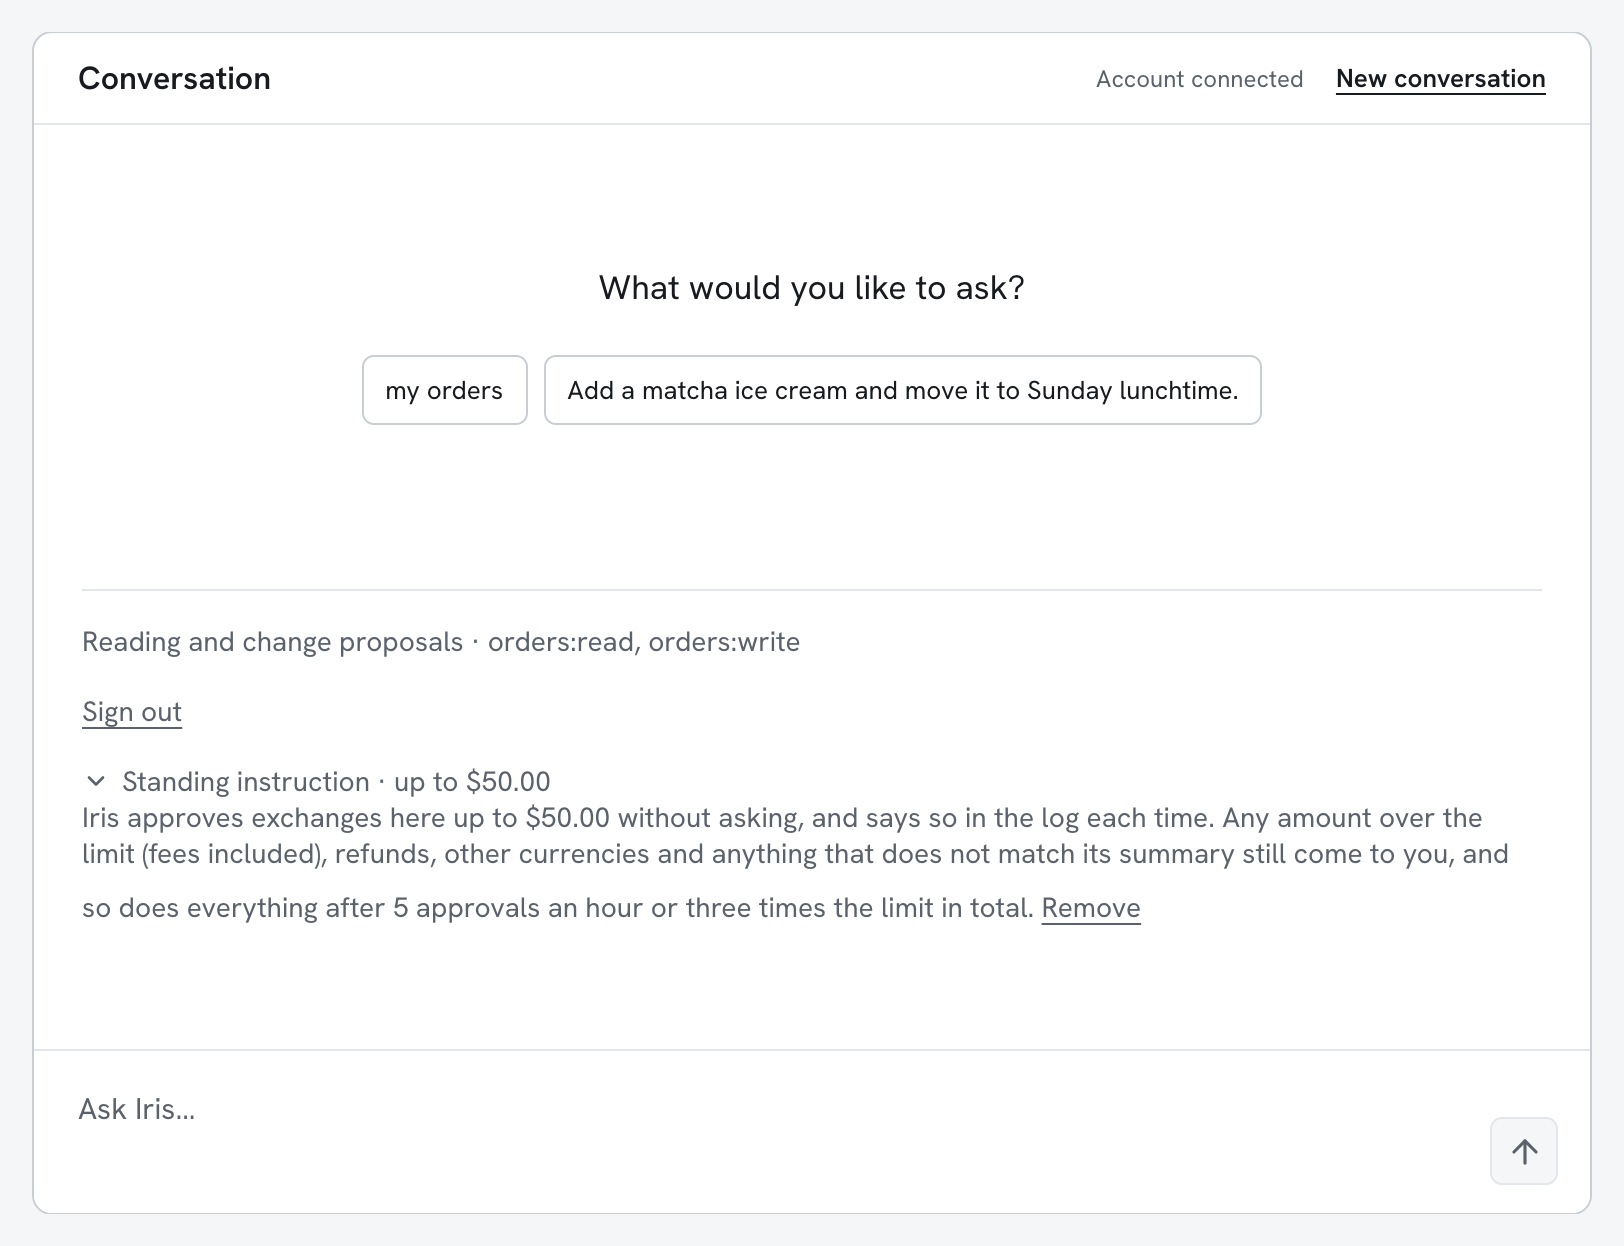
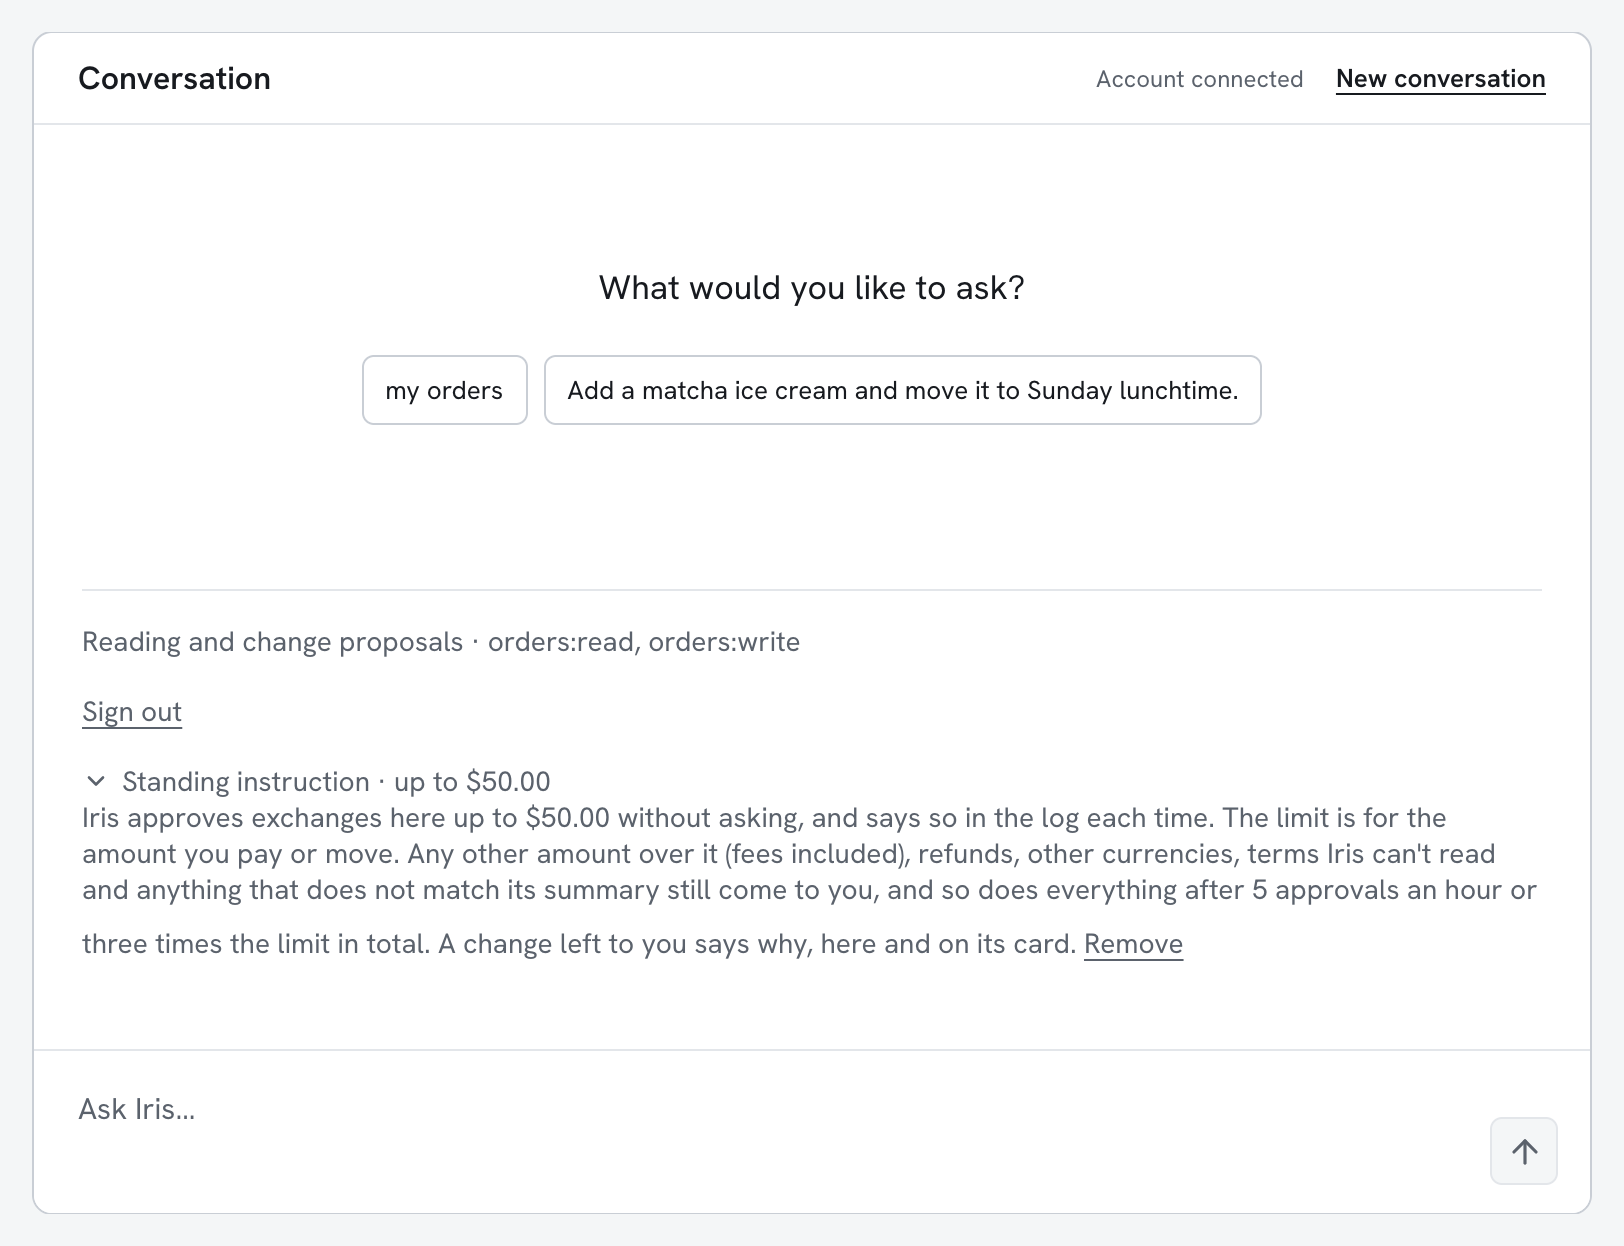
Retake Letting the agent approve for you after today's changes to the lab
Every screenshot is new, from one visitor's run against production on 25
November 2026.

On screen: the instruction now says that the limit is for the amount the
customer pays or moves; a change left to the customer carries the reason
on its card and under the instruction (over the limit, the hour's total);
Lantern's record shows the time.

The Harborline part is rewritten around what happens now. With an
instruction of 50 dollars, Iris approves a transfer of 25 dollars,
Harborline declines the agent's approval and does nothing, the transfer
comes back to Elena with the bank's reason, she approves it herself, and
Harborline's website lists the declined attempt as Not applied next to
the transfer she approved. That takes steps 9 to 11 with three new
images in place of the two old ones; the Inspector image moves to 12.

The explanation of what an instruction covers follows the rule as it is:
the limit is compared with the amount paid or moved, every other amount
must be within it, and a balance counts by how much it changes.

Changed region(s): [[0.0308, 0.6404, 0.9236, 0.7624]]

diff --git a/docs/learn/how-it-works/letting-the-agent-approve-for-you.md b/docs/learn/how-it-works/letting-the-agent-approve-for-you.md
@@ -8,9 +8,10 @@ approves a small change without asking her, tells Lantern that the agent
 approved, and still brings her everything the instruction does not cover.
 
 This page follows the instruction screen by screen at Lantern, and then at
-[Harborline Bank](https://bank-demo.poppylab.dev), where the same instruction
-approved nothing and Elena decided herself. Every screenshot is from the live
-lab, taken on 25 November 2026.
+[Harborline Bank](https://bank-demo.poppylab.dev), where Iris approves a small
+transfer on the same instruction, the bank declines the agent's approval, and
+Elena approves the transfer herself. Every screenshot is from the live lab,
+taken on 25 November 2026.
 
 ## Who does what
 
@@ -45,22 +46,25 @@ under Lantern's address.
 
 ### 2. What the instruction covers
 
-![The saved instruction: Iris approves exchanges here up to 50 dollars without asking, with the cases that still come to Elena and a Remove link](../../../apps/playground/public/learn-media/how-it-works/letting-the-agent-approve-for-you/02-instruction-saved.webp "Iris states the rule back in full, with a link to remove it.")
+![The saved instruction: Iris approves exchanges here up to 50 dollars without asking, the limit is for the amount you pay or move, with the cases that still come to Elena and a Remove link](../../../apps/playground/public/learn-media/how-it-works/letting-the-agent-approve-for-you/02-instruction-saved.webp "Iris states the rule back in full, with a link to remove it.")
 
 Iris states the rule back. It will approve changes at Lantern up to 50 dollars
-without asking and record each one. Any amount over the limit, a refund,
-another currency or terms that disagree with their own summary still come to
-Elena. So does everything after five approvals in an hour, or once the
-approvals of an hour add up to three times the limit.
+without asking and record each one. The limit is for the amount Elena pays or
+moves. Any other amount over it, a refund, another currency, terms Iris cannot
+read or terms that disagree with their own summary still come to her.
 
-The limit is compared with the whole amount the company states for the
-changed order, and with any fee. A 6-dollar dessert on a 37-dollar order makes
-a total of 43 dollars, so it needs a limit of at least 43. With a limit of 20
-dollars the same dessert waited for Elena.
+So does everything after five approvals in an hour, or once the approvals of
+an hour add up to three times the limit. Iris also says that a change left to
+Elena carries the reason, under the instruction and on its card.
+
+For a change to an order, the amount Elena pays is the new total the company
+states. A 6-dollar dessert on a 37-dollar order makes a total of 43 dollars,
+so it needs a limit of at least 43. Every other amount in the terms, such as
+the previous total or a fee, has to be within the limit as well.
 
 ### 3. Ask for a small change
 
-![Elena asks to add a matcha ice cream. Under the standing instruction a new line reads: approved by Iris, 43 dollars within your limit of 50 dollars](../../../apps/playground/public/learn-media/how-it-works/letting-the-agent-approve-for-you/03-iris-approves-under-the-instruction.webp "Lantern asked for an approval as usual. This time Iris gave it.")
+![Elena asks to add a matcha ice cream. Under the standing instruction a new line reads: approved by Iris, 43 dollars within your limit of 50 dollars, and the entry for the change reads Completed](../../../apps/playground/public/learn-media/how-it-works/letting-the-agent-approve-for-you/03-iris-approves-under-the-instruction.webp "Lantern asked for an approval as usual. This time Iris gave it.")
 
 Elena types "Add a matcha ice cream". Iris asks Lantern for the change, and
 Lantern answers as it does for any change: with the terms it would apply and a
@@ -79,12 +83,14 @@ does not decide whether an instruction applies.
 <summary>What travelled</summary>
 
 ```text
+Started a Poppy Session, signed in
+Read /poppy/tasks
+Company Agent conversations at https://food-demo.poppylab.dev/poppy/conversations
+Found 5 API tools at the Company
 Read /api/menu
 Read /api/account/orders
 Sent a request to /api/account/orders/ord_LNB1001/changes
 Asked for your approval; nothing was done yet
-Applying your standing instruction · $43.00 within your limit of $50.00
-Operation succeeded
 ```
 
 The terms in Lantern's answer, which Iris compared with the limit:
@@ -105,18 +111,26 @@ The terms in Lantern's answer, which Iris compared with the limit:
 ```
 
 Iris then sent the same request again with an approval that names the agent
-as the approver. [Approvals with Operations](../operations.md#who-approves)
-describes the two kinds of approval.
+as the approver, and wrote two more lines in its log:
+
+```text
+Applying your standing instruction · $43.00 within your limit of $50.00
+Operation succeeded
+```
+
+[Approvals with Operations](../operations.md#who-approves) describes the two
+kinds of approval.
 
 </details>
 
 ### 4. What Iris tells Elena
 
-![The card for the change reads Completed, with Lantern's confirmation and a note: approved by Iris on your standing instruction, not by a tap](../../../apps/playground/public/learn-media/how-it-works/letting-the-agent-approve-for-you/04-what-the-card-says.webp "The card says who approved and what Lantern was told.")
+![The card for the change reads Completed, with Lantern's confirmation, the previous total, the difference and the new total, and a note: approved by Iris on your standing instruction, not by a tap](../../../apps/playground/public/learn-media/how-it-works/letting-the-agent-approve-for-you/04-what-the-card-says.webp "The card says who approved and what Lantern was told.")
 
-The card for the change reads Completed. Below Lantern's confirmation, Iris
-says how the change was approved: by Iris on the standing instruction, and
-without a tap from Elena. It also says what Lantern received: the approver
+The card for the change reads Completed, and under Lantern's confirmation it
+says "Approved by Iris on your standing instruction". Opened, it shows the
+terms and how the change was approved: by Iris on the standing instruction,
+and without a tap from Elena. It also says what Lantern received: the approver
 "agent" and the reference of the entry in Iris's list.
 
 Iris does not pass its own approval off as Elena's. The company is told which
@@ -124,74 +138,76 @@ of the two approved.
 
 ### 5. What Lantern recorded
 
-![Lantern's record of the agent's activity: the change, applied, approved by your agent on a standing instruction you gave it](../../../apps/playground/public/learn-media/how-it-works/letting-the-agent-approve-for-you/05-lantern-records-who-approved.webp "Lantern's own website says that the agent approved this change.")
+![Lantern's record of the agent's activity: the change, applied on 25 November at 20:57 UTC, approved by your agent on a standing instruction you gave it](../../../apps/playground/public/learn-media/how-it-works/letting-the-agent-approve-for-you/05-lantern-records-who-approved.webp "Lantern's own website says that the agent approved this change.")
 
 Lantern's website shows the change under Your agent's activity, with the line
 "Approved by your agent, on a standing instruction you gave it". Lantern knew
 who approved and chose to act on it.
 
 That choice belongs to the company. Lantern takes an agent's approval for a
-change to an order. Another company can ask for the customer's own.
+change to an order. Another company can ask for the customer's own, as
+Harborline does in step 9.
 
 ### 6. A change over the limit
 
-![Elena asks to add two pork gyoza. The new total is 59 dollars, and the change waits in the Needs you panel with a button: Approve 59 dollars](../../../apps/playground/public/learn-media/how-it-works/letting-the-agent-approve-for-you/06-over-the-limit.webp "Above the limit, the change waits for Elena as it would without an instruction.")
+![Elena asks to add two pork gyoza. The new total is 59 dollars, and the change waits in the Needs you panel with the reason, over your limit of 50 dollars, and a button: Approve 59 dollars](../../../apps/playground/public/learn-media/how-it-works/letting-the-agent-approve-for-you/06-over-the-limit.webp "Above the limit, the change waits for Elena, and the panel says why.")
 
 Elena types "Add 2 pork gyoza". Lantern's terms put the new total at 59
-dollars, which is over the limit. Iris does not approve. The change waits in
-the Needs you panel, and Elena decides. She declined this one, and the order
-stayed as it was.
+dollars, which is over the limit, so Iris does not approve. The change waits
+in the Needs you panel, and the panel says why: the new total, 59 dollars, is
+over her limit of 50. Elena declined this one, and the order stayed as it was.
 
-A refund also came to her. When she asked to remove a dish, the new total was
-38 dollars, under the limit, and Iris still waited for her approval, because
-the instruction does not cover money coming back.
+A refund also came to her. When she asked to remove the ice cream, 6 dollars
+would come back and the new total was 37 dollars, under the limit. Iris still
+waited for her approval, because the instruction does not cover money coming
+back.
+The reason on the panel was that Iris could not read the price difference,
+which Lantern states as a negative amount.
 
 ### 7. A limit on the whole hour
 
-![Three approvals are listed under the instruction. A fourth change, to a total of 48 dollars, waits in the Needs you panel](../../../apps/playground/public/learn-media/how-it-works/letting-the-agent-approve-for-you/07-hourly-total-reached.webp "A change within the limit waits, because the approvals of the last hour already add up to 134 dollars.")
+![Three approvals are listed under the instruction. A fourth change, a move to Sunday with a total of 48 dollars, waits in the Needs you panel with the reason: more than 3 times your limit, 150 dollars, within an hour](../../../apps/playground/public/learn-media/how-it-works/letting-the-agent-approve-for-you/07-hourly-total-reached.webp "A change within the limit waits, because the approvals of the last hour already add up to 134 dollars.")
 
 Within the hour Iris approved three changes on the instruction, with totals
-of 43, 48 and 43 dollars. Elena then asks for one more small change, to a
-total of 48 dollars. It is within the limit of 50, and it still waits for her.
+of 43, 43 and 48 dollars. Elena then asks to move the delivery to Sunday
+lunchtime. The total stays at 48 dollars, within the limit of 50, and the
+change still waits for her.
 
 The approvals of one hour may add up to three times the limit, which is 150
 dollars here, and this one would bring them to 182. The limit on one change
-cannot be used many times in a row to approve a large amount. The panel does
-not say why the change is waiting. Iris's log does, and it is shown at the end
-of this page.
+cannot be used many times in a row to approve a large amount. The panel gives
+that reason above its buttons.
 
 ### 8. The list of what Iris approved
 
-![The standing instruction with three entries below it, each with Lantern's description, the amount against the limit and a reference](../../../apps/playground/public/learn-media/how-it-works/letting-the-agent-approve-for-you/08-ledger.webp "Every approval Iris gave on the instruction, with the reference Lantern received.")
+![The standing instruction with four entries below it: three approved by Iris, each with the amount against the limit and a reference, and the move to Sunday, left to you with the reason](../../../apps/playground/public/learn-media/how-it-works/letting-the-agent-approve-for-you/08-ledger.webp "Every approval Iris gave on the instruction, with the reference Lantern received, and the change it left to Elena.")
 
 Under the instruction Iris keeps a list of every approval it gave on it:
 Lantern's description of the change, the amount against the limit, and the
 reference Lantern received with the approval. Elena can compare it with
-Lantern's record in step 5.
+Lantern's record in step 5. A change that waits for her is in the list too,
+with the reason Iris left it to her.
 
 The refund she approved herself and the change she declined are not in the
-list. It holds only what the instruction approved.
+list.
 
 ### 9. The same instruction at Harborline
 
-![At Harborline, with a standing instruction up to 50 dollars, a transfer of 25 dollars waits in the Needs you panel with an Approve button](../../../apps/playground/public/learn-media/how-it-works/letting-the-agent-approve-for-you/09-harborline-waits-for-elena.webp "At the bank the instruction approved nothing. The transfer waits for Elena.")
+![At Harborline, with a standing instruction up to 50 dollars, a transfer of 25 dollars is back in the Needs you panel with a note that Harborline Bank declined the approval Iris sent, the bank's reason and a button: Approve 25 dollars](../../../apps/playground/public/learn-media/how-it-works/letting-the-agent-approve-for-you/09-harborline-declines-the-agent.webp "Iris approved on the instruction. Harborline declined the agent's approval and did nothing.")
 
 Elena writes the same instruction for Harborline Bank and asks Iris to
-transfer 25 dollars from checking to savings. The amount is under the limit,
-and Iris still does not approve it. The transfer waits in the Needs you
-panel.
+transfer 25 dollars from checking to savings. Harborline answers with terms,
+as in [Moving money](moving-money.md). The amount she moves is 25 dollars, so
+the instruction covers it, and Iris sends an approval of its own.
 
-Iris applies an instruction only to terms it can settle against the limit: a
-total stated by the company, with every other amount in the terms within the
-limit too. Harborline's terms for a transfer hold the amount and the balances
-of both accounts, which are far above 50 dollars, and no total. Iris cannot
-settle them, so the decision goes to Elena.
+Harborline declines it. The bank moves money only when the customer approves
+herself, and it says so in its answer. It does nothing, and the transfer comes
+back to Elena: the panel shows the same terms, the bank's reason and an
+Approve button.
 
-Harborline also has a rule of its own for this case.
-[Approvals with Operations](../operations.md#declines) describes it: the
-bank declines an agent's approval for a payment or a transfer and asks for the
-customer's own. In this run Iris sent no approval of its own to Harborline, so
-that rule was not put to the test.
+Harborline's terms also hold the balances of both accounts, which are far
+above 50 dollars. Iris does not compare a balance with the limit. It compares
+what the transfer does to each balance, which is 25 dollars here.
 
 <details>
 <summary>What travelled</summary>
@@ -202,21 +218,43 @@ Sent a request to /api/account/transfers
 Asked for your approval; nothing was done yet
 ```
 
-Harborline's terms hold `amount_cents`, the four balances before and after as
-`source_balance_before_cents` and the like, and no `total_cents`. Iris sent no
-approval until Elena pressed the button.
+Iris then sent the same request again with an approval that names the agent,
+and Harborline declined it. Iris's log has a line for each:
+
+```text
+Applying your standing instruction · $25.00 within your limit of $50.00
+Company declined the approval on your standing instruction · waiting for you
+```
+
+[Approvals with Operations](../operations.md#declines) describes a decline. It
+is final for that approval, and the agent does not send it again.
 
 </details>
 
 ### 10. Elena approves it herself
 
-![Harborline's record of the agent's activity: the transfer of 25 dollars, applied once, approved by you in your agent](../../../apps/playground/public/learn-media/how-it-works/letting-the-agent-approve-for-you/10-harborline-records-elena-approved.webp "Harborline's website says that Elena approved this transfer herself.")
+![The transfer of 25 dollars now reads Completed and Approved by you. Under the instruction its line reads: declined by the company, left to you](../../../apps/playground/public/learn-media/how-it-works/letting-the-agent-approve-for-you/10-elena-approves-herself.webp "The same terms, approved by Elena this time, and Harborline made the transfer.")
 
-Elena presses Approve, and Harborline makes the transfer. Its website records
-it as approved by her, in her agent.
+Elena presses Approve $25.00. Iris sends the same request once more, this time
+with her approval, and Harborline makes the transfer. The entry reads
+Completed and "Approved by you".
 
-Whatever the instruction does not cover arrives in the same panel as before,
-where Elena can approve or decline it.
+Under the instruction, the line for this transfer says that the company
+declined and that it was left to her. Iris does not try the instruction on it
+again.
+
+### 11. What Harborline recorded
+
+![Harborline's record of the agent's activity: the transfer of 25 dollars applied once and approved by you in your agent, and below it the same transfer marked Not applied, with the bank's reason, approved by your agent on a standing instruction](../../../apps/playground/public/learn-media/how-it-works/letting-the-agent-approve-for-you/11-harborline-records-both.webp "Harborline's website lists the approval it declined and the one it acted on.")
+
+Harborline's website lists both attempts under Agent activity. One is marked
+Not applied, with the bank's reason and the line "Approved by your agent, on a
+standing instruction you gave it". The other is the transfer, applied once and
+approved by Elena in her agent.
+
+Whatever the instruction does not cover, or a company does not take from an
+agent, arrives in the same panel as before, where Elena can approve or decline
+it.
 
 ## What Lantern and Harborline control
 
@@ -226,16 +264,16 @@ Each company stays in charge of what an agent's approval is worth to it.
   could not raise or lower that total.
 - It learns from the approval who gave it, the customer or the agent on her
   instruction, and it keeps that in its own record.
-- It decides whether to act on an agent's approval. Lantern did. A company
-  may decline one and do nothing, and an agent that was declined does not
-  send that approval again. [Approvals with Operations](../operations.md#declines)
+- It decides whether to act on an agent's approval. Lantern did. Harborline
+  declined, did nothing and gave its reason, and Iris did not send that
+  approval again. [Approvals with Operations](../operations.md#declines)
   explains declines.
 - It can still refuse a request for its own reasons, whoever approves, as
   Harborline does in [Moving money](moving-money.md).
 
 ## For the technical reader
 
-![The Inspector's log: applying your standing instruction, 43 dollars within your limit of 50 dollars, operation succeeded, and later standing instruction not applied, more than 3 times your limit in the last hour](../../../apps/playground/public/learn-media/how-it-works/letting-the-agent-approve-for-you/11-inspector-log.webp "The Inspector shows each time the instruction was applied and the time it was not.")
+![The Inspector's log: applying your standing instruction, 48 dollars within your limit of 50 dollars, operation succeeded, and later standing instruction not applied, with this change it would approve more than 3 times your limit within an hour](../../../apps/playground/public/learn-media/how-it-works/letting-the-agent-approve-for-you/12-inspector-log.webp "The Inspector shows each time the instruction was applied and the time it was not.")
 
 The Inspector view of the playground logs each use of the instruction and
 the reason when it is not applied.
